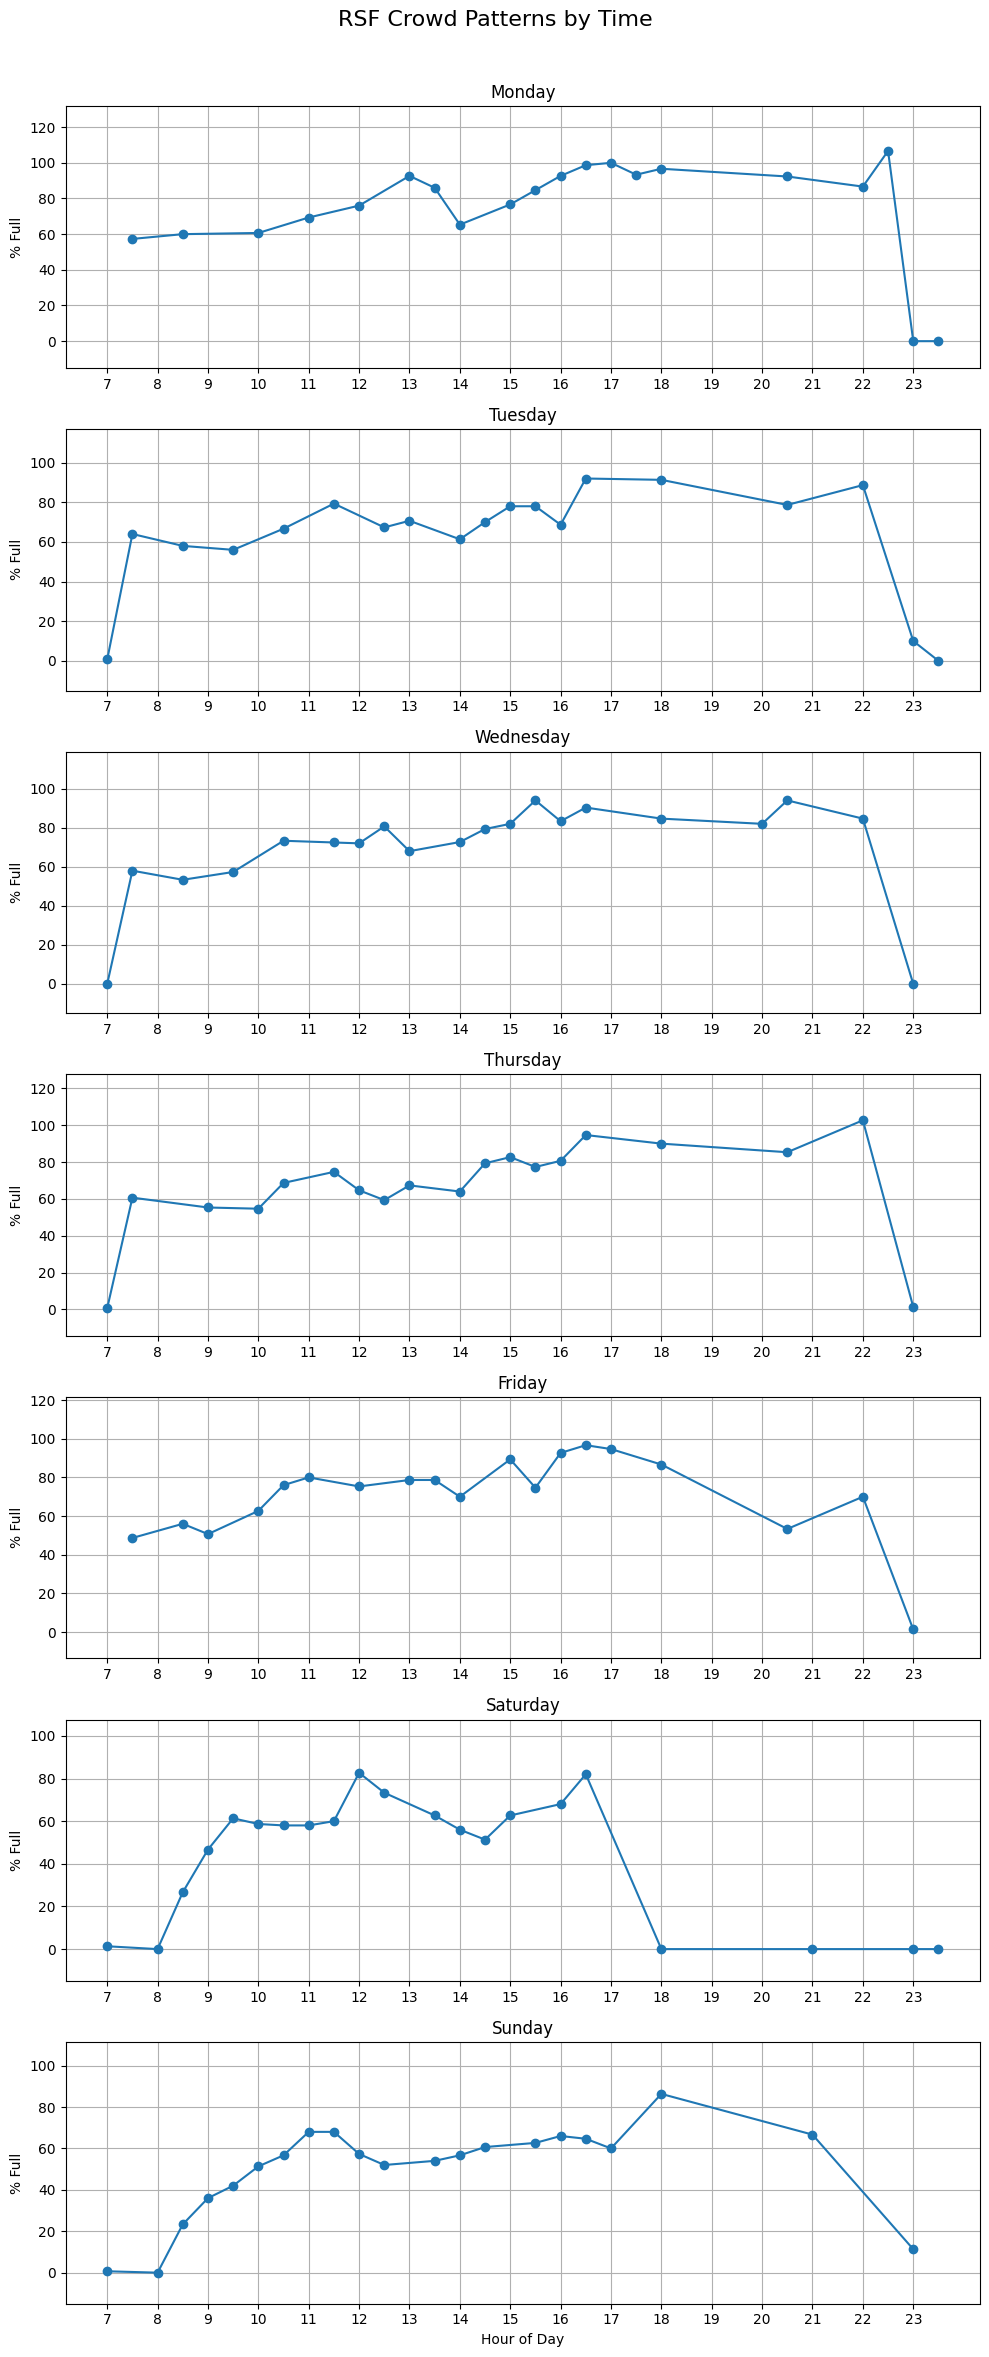
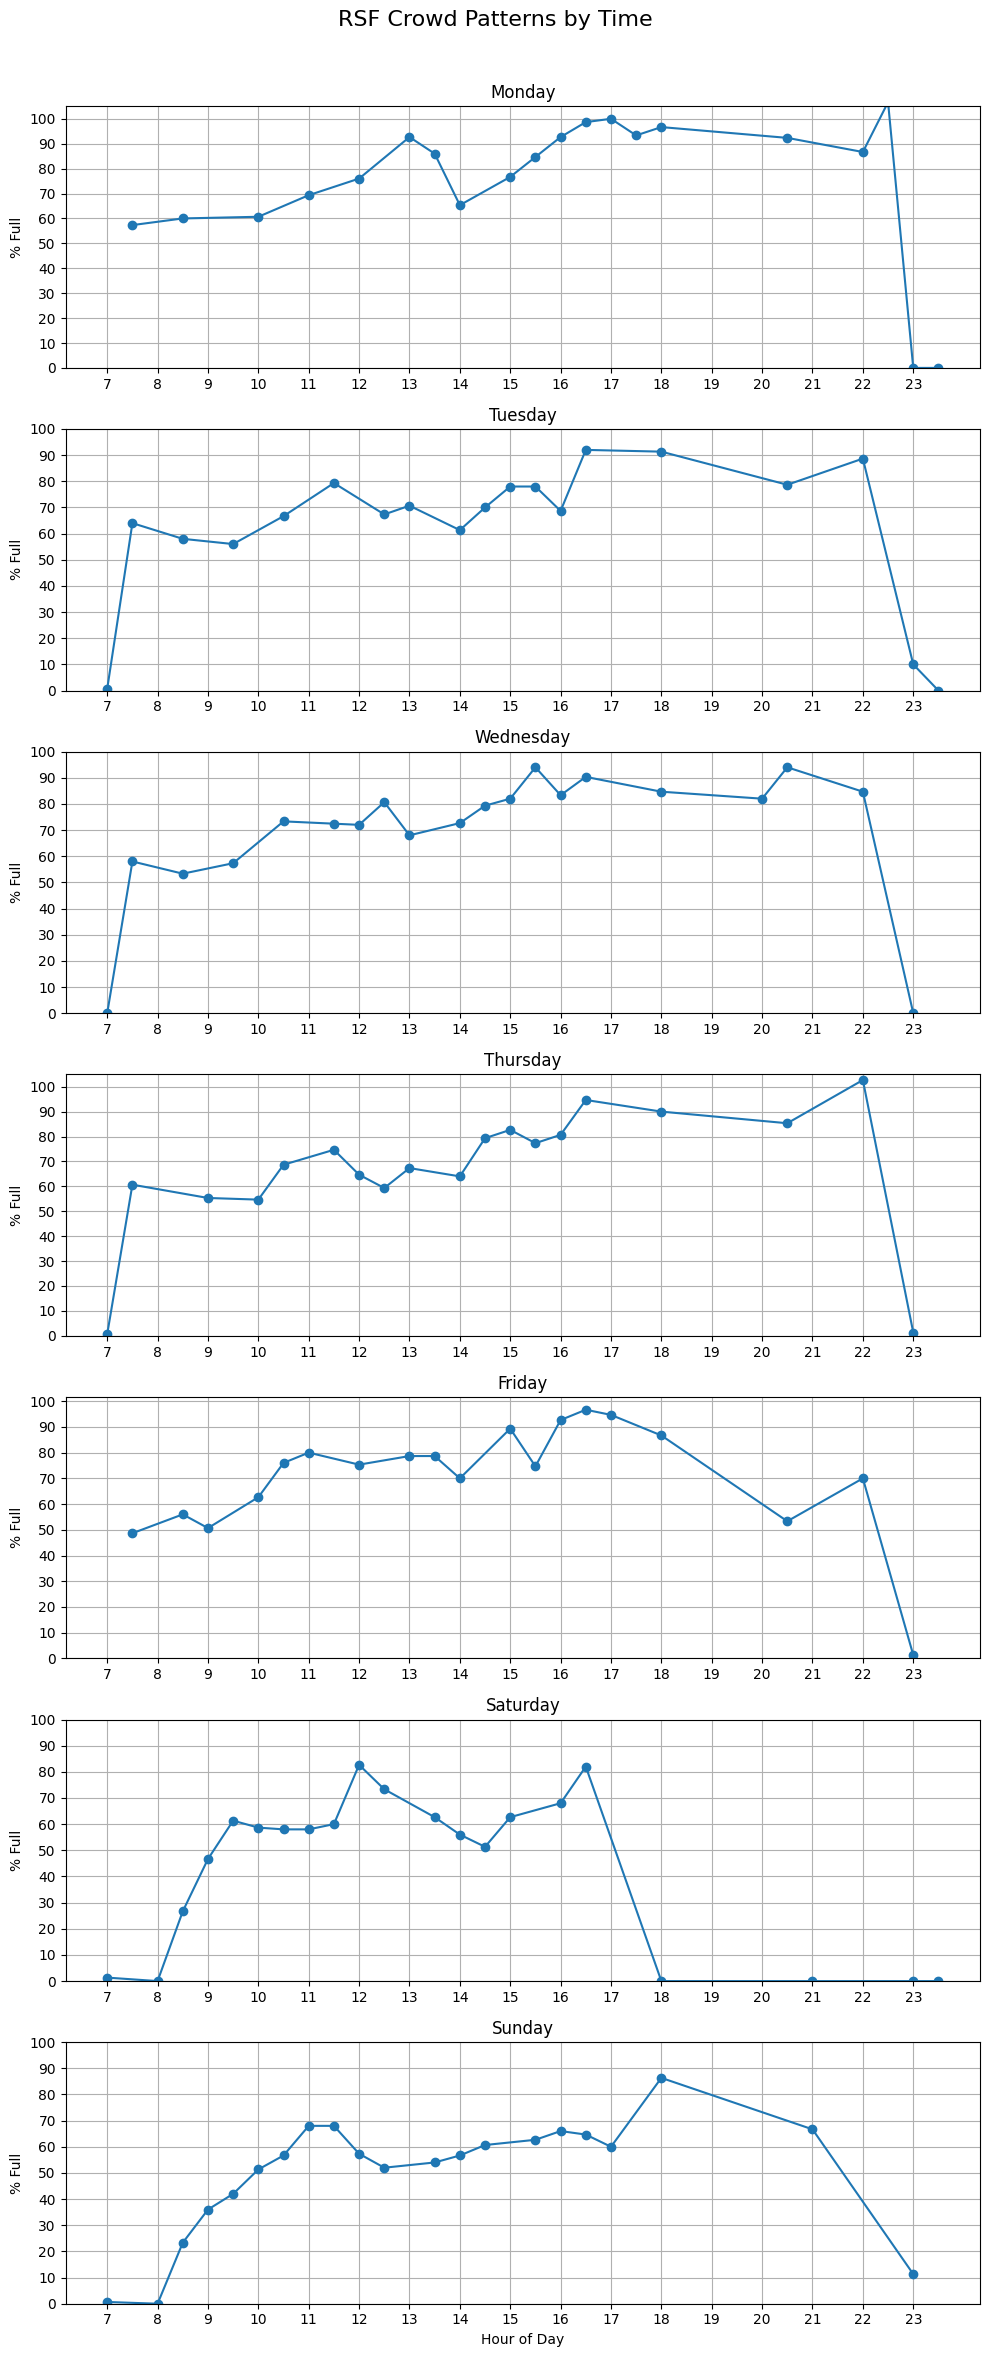
fix spacing again, added numpy on requirements

diff --git a/make_graph.py b/make_graph.py
@@ -1,6 +1,7 @@
 # %%
 import pandas as pd
 import matplotlib.pyplot as plt
+import numpy as np
 
 
 # %%
@@ -52,9 +53,9 @@ for i, day in enumerate(sorted(grouped["weekday"].unique())):
     axes[i].plot(x, data["percent_full"], marker="o")
     axes[i].set_title(day_map[day])
     axes[i].set_ylabel("% Full")
-    ymin = data["percent_full"].min() - 15
-    ymax = data["percent_full"].max() + 25
-    axes[i].set_ylim(ymin, ymax)
+    ymax = min(105, data["percent_full"].max() + 5)
+    axes[i].set_ylim(0, ymax)
+    axes[i].set_yticks(np.arange(0, 101, 10))
     axes[i].grid(True)
     axes[i].tick_params(labelbottom=True)
 
